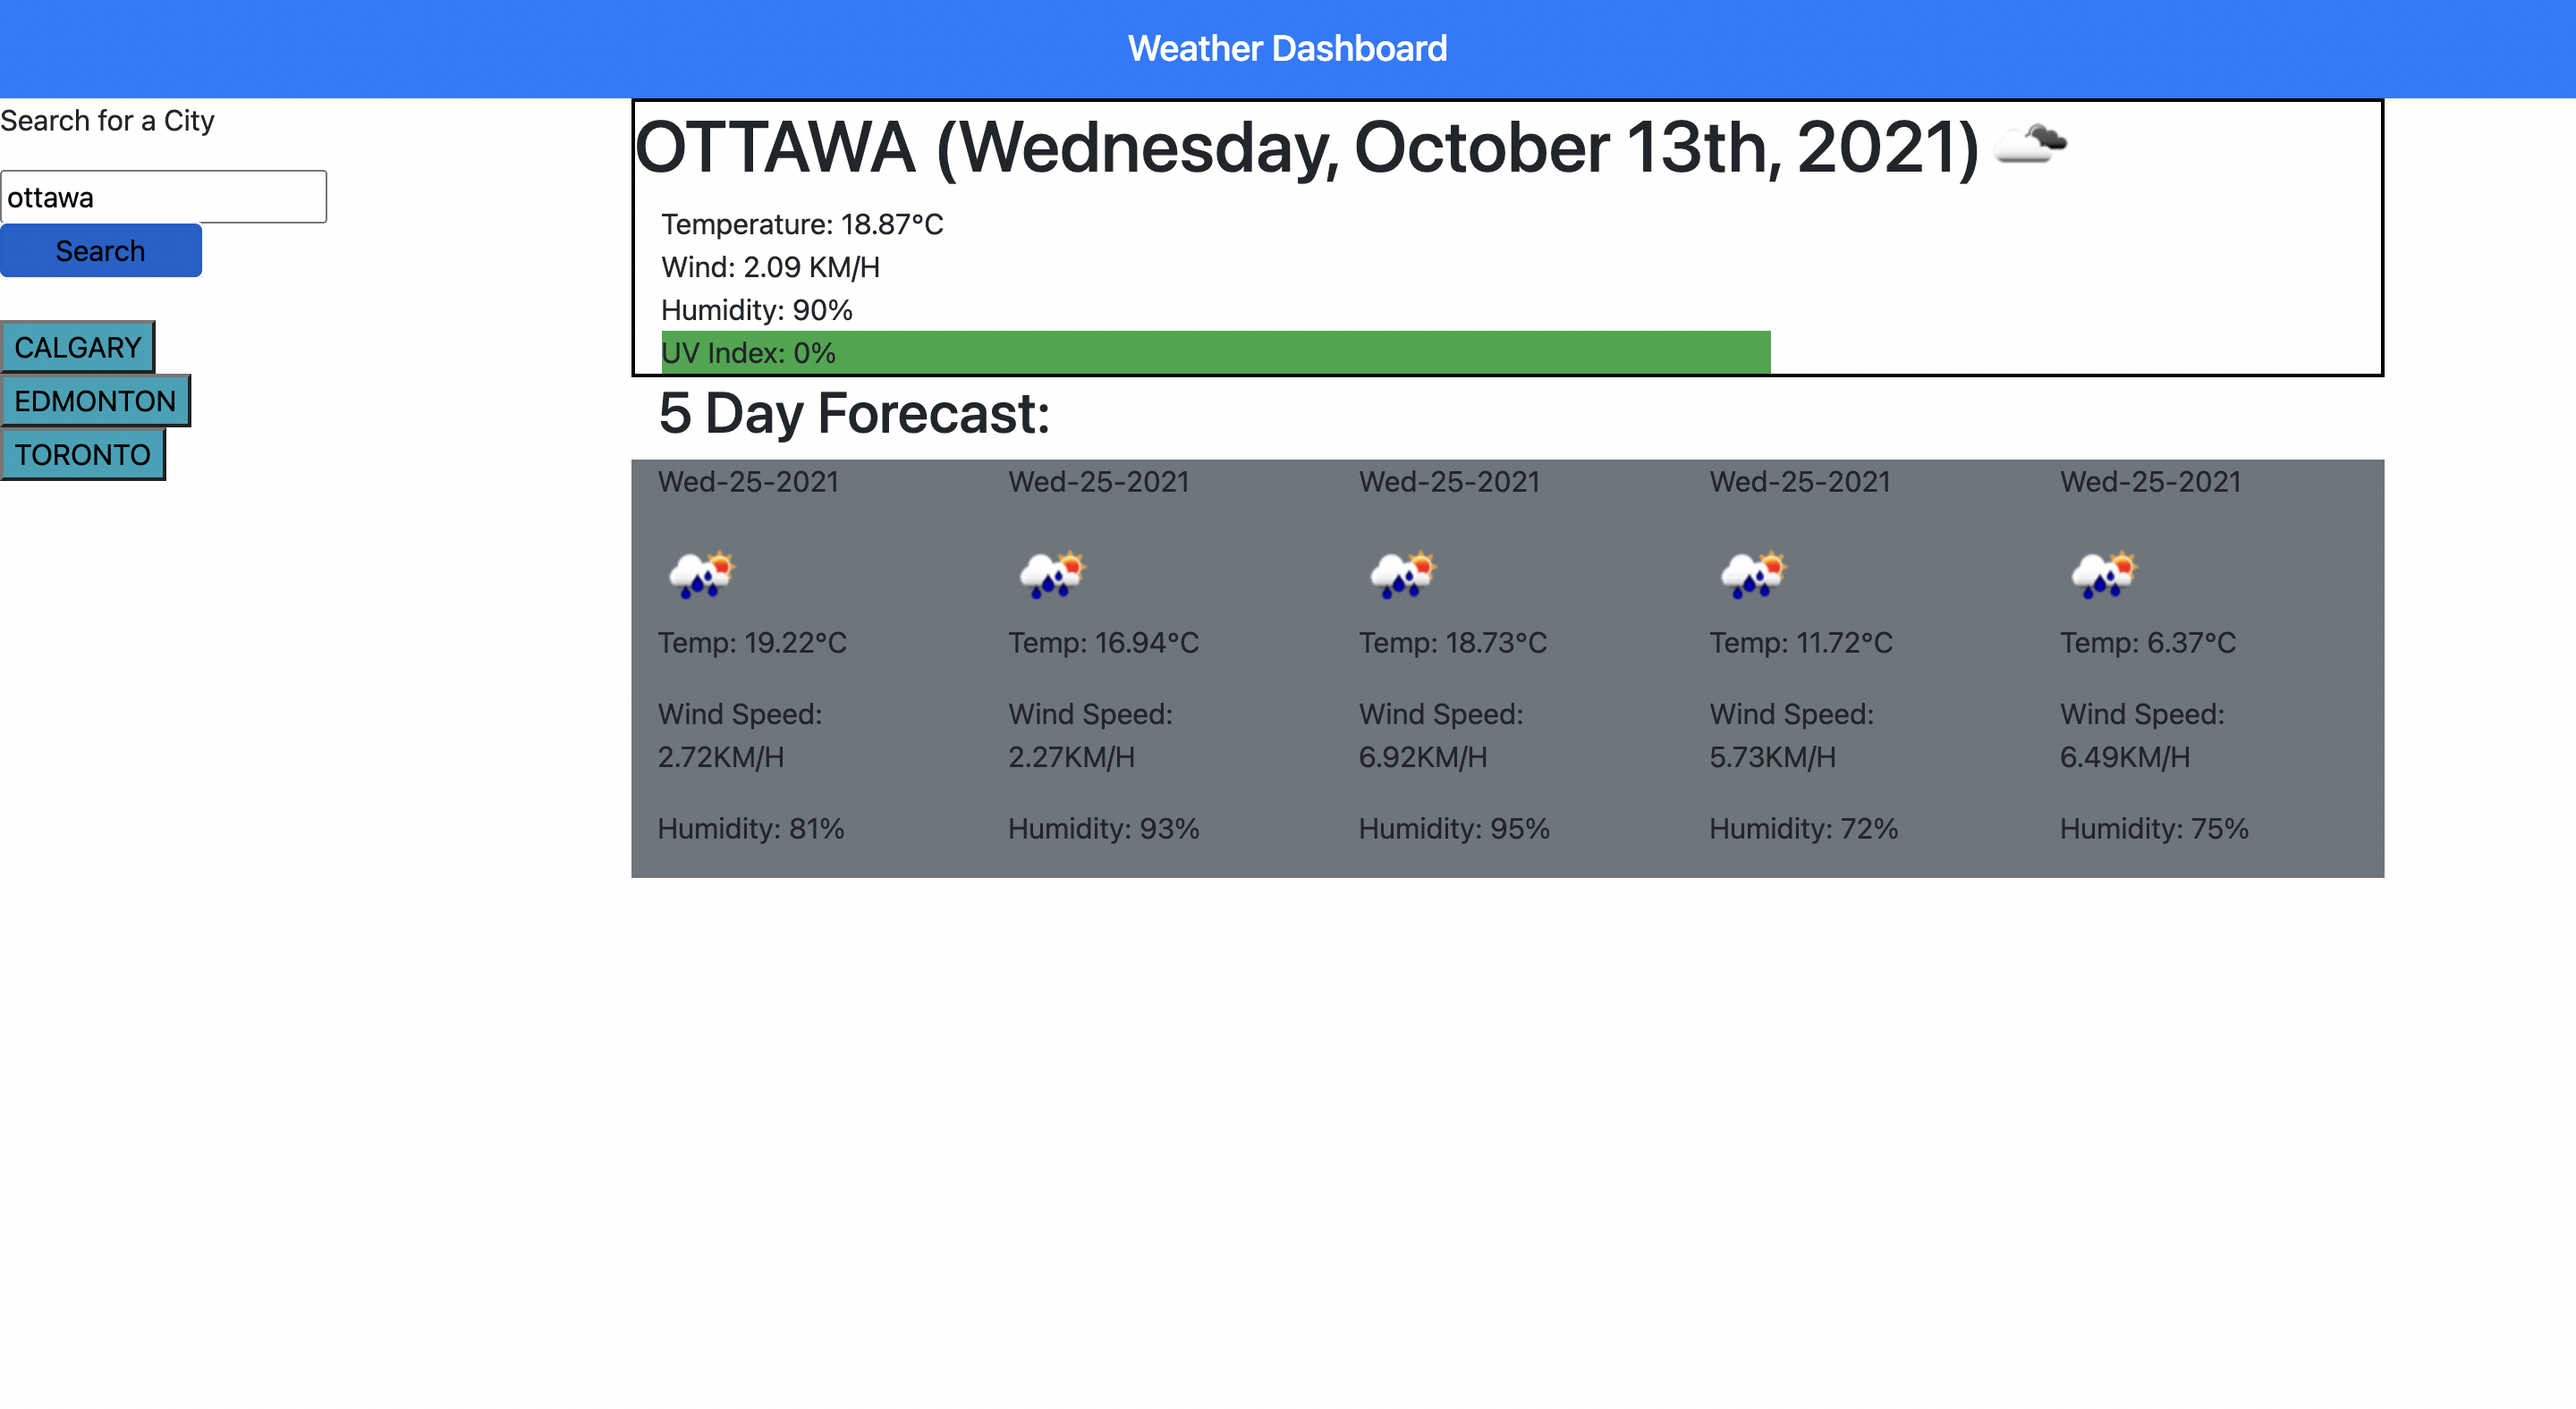
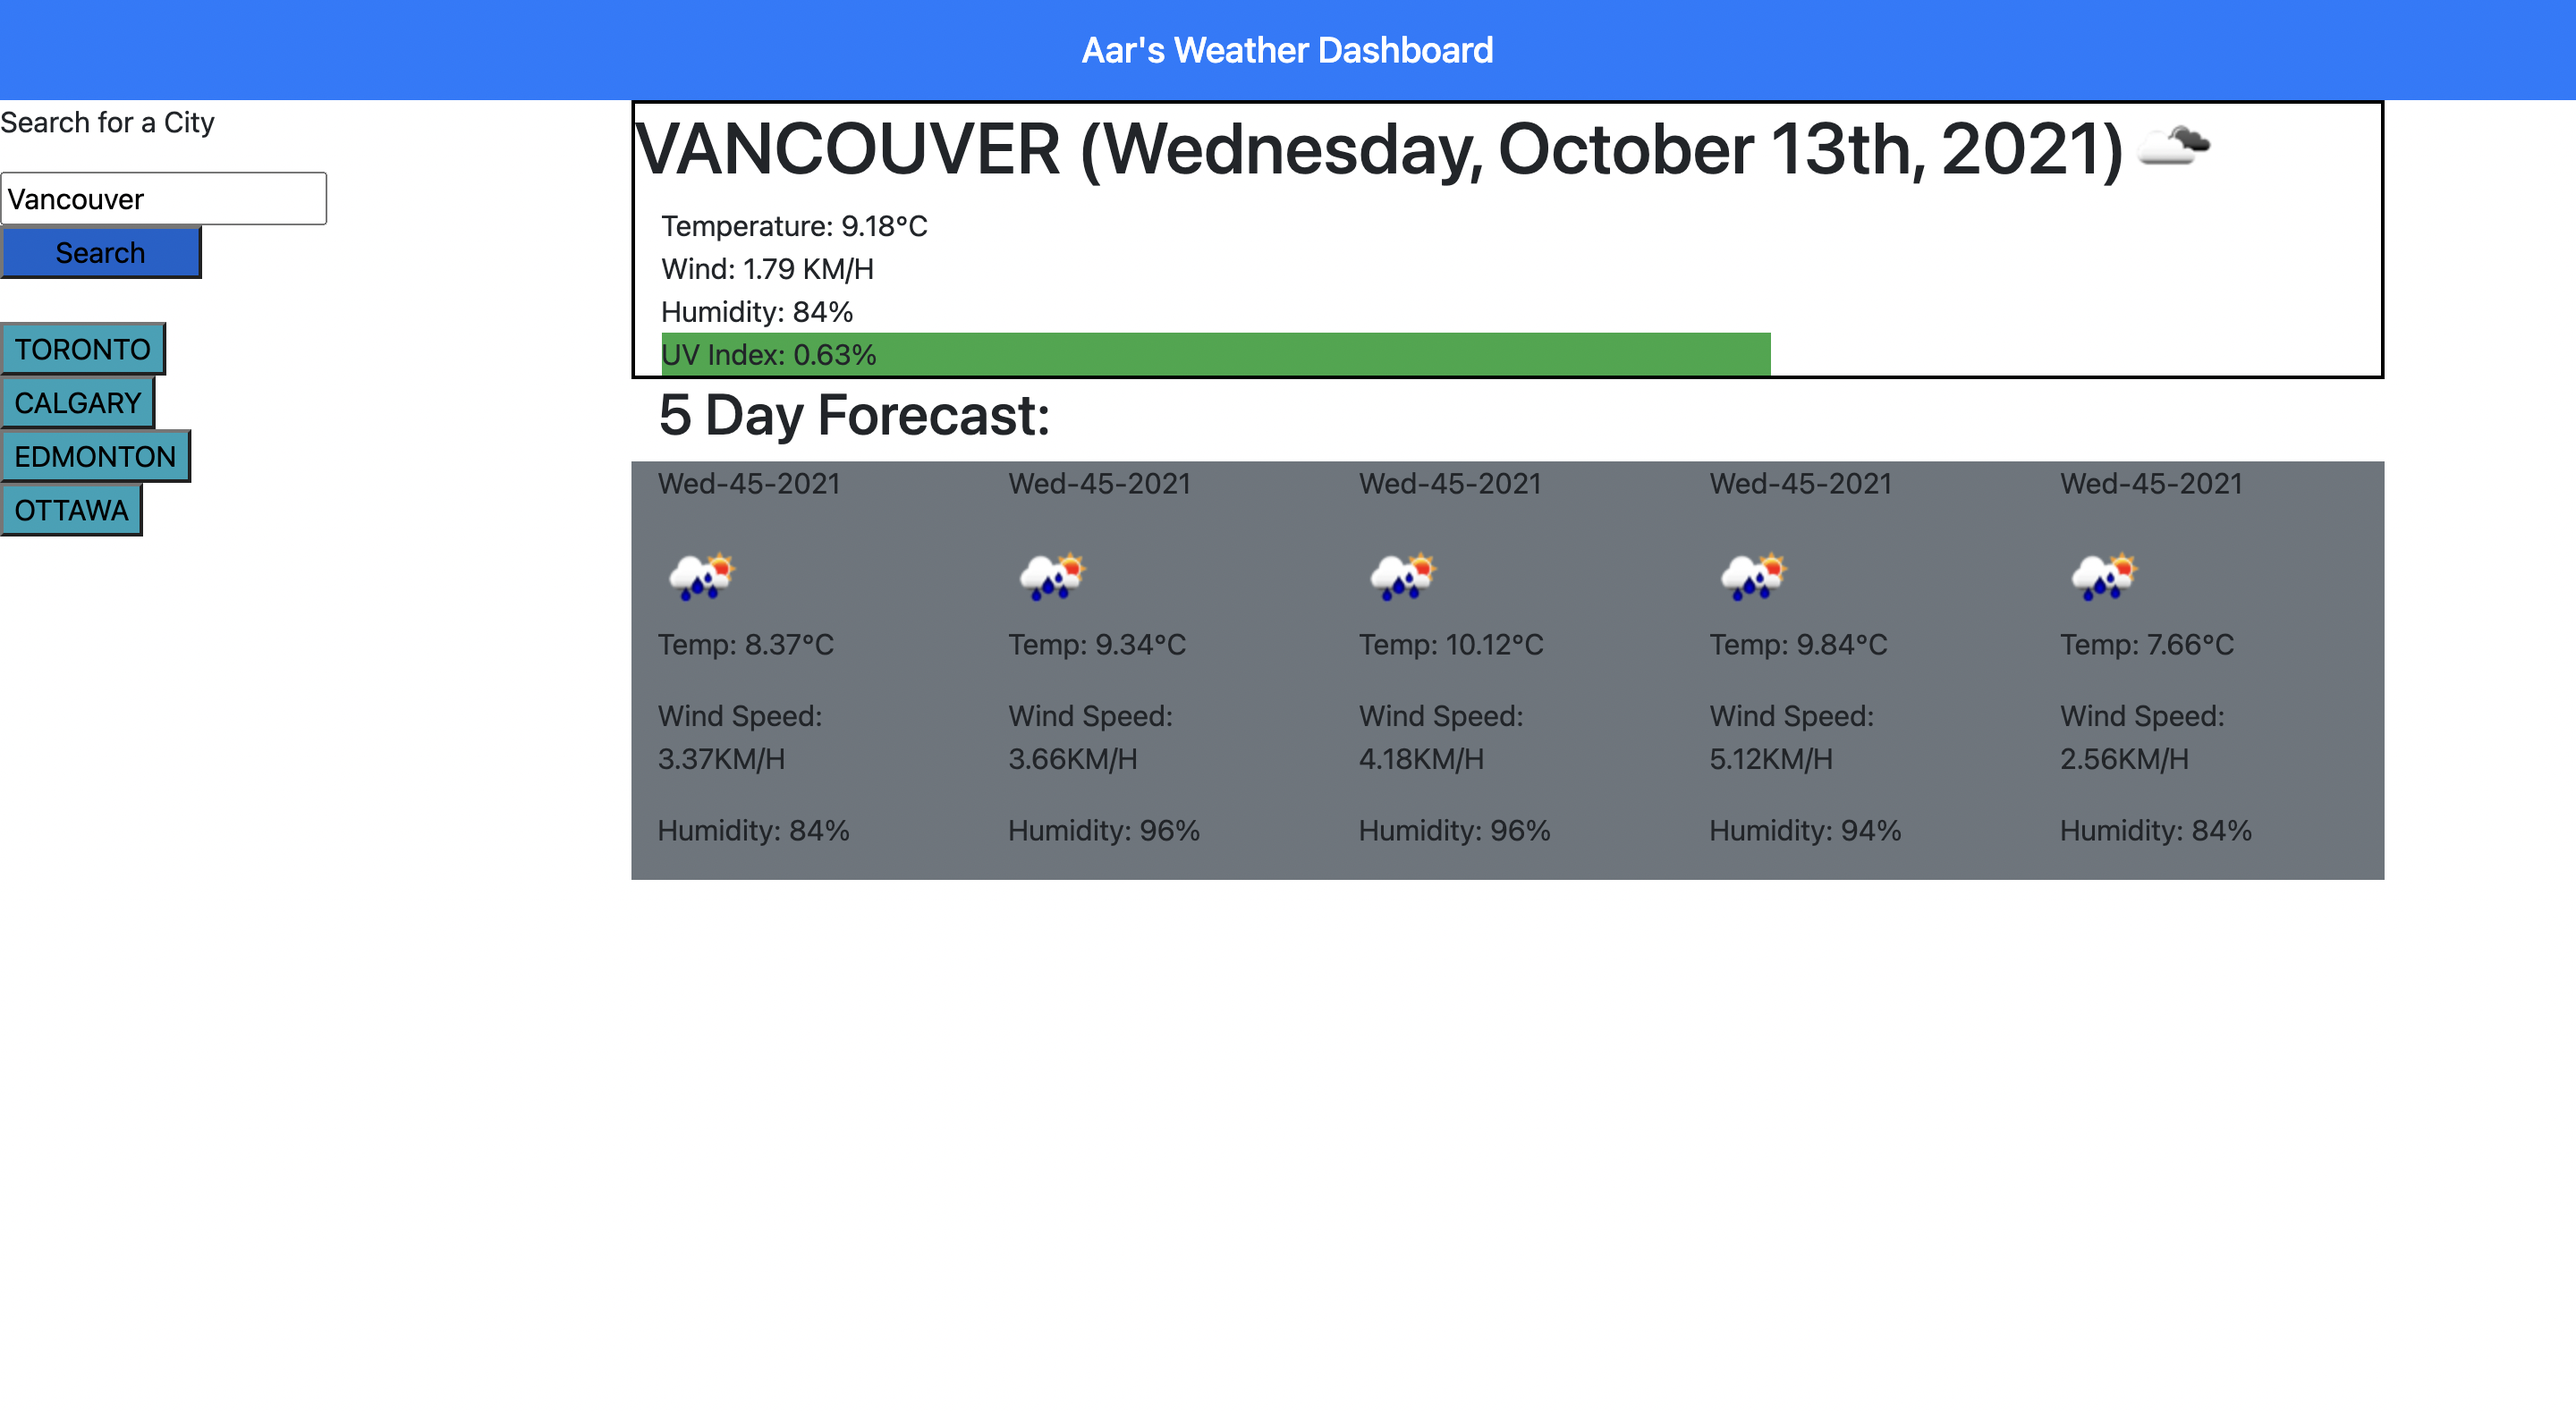
minute changes

diff --git a/index.html b/index.html
@@ -12,7 +12,7 @@
 <body>
 <header>
     <nav class="navbar navbar-dark bg-primary bg-gradient ">
-        <span class="navbar-brand mb-0 h1 mx-auto">Weather Dashboard</span>
+        <span class="navbar-brand mb-0 h1 mx-auto">Aar's Weather Dashboard</span>
     </nav>
     <div class = "row">
         <div id="sidebar" class ="col-3 align-items-center">
